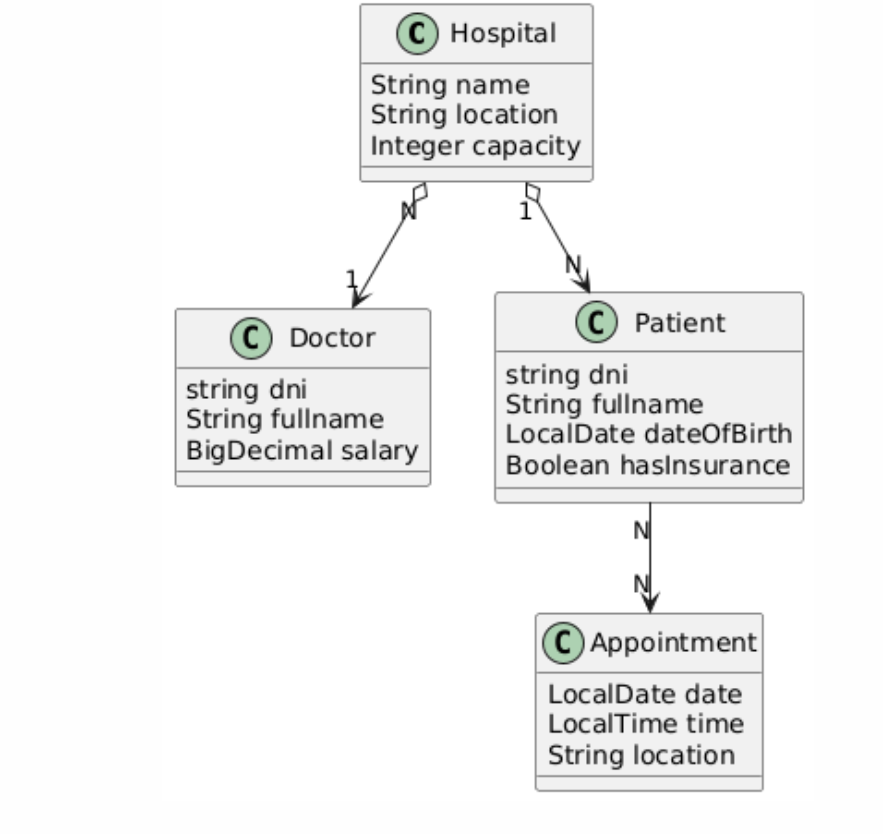
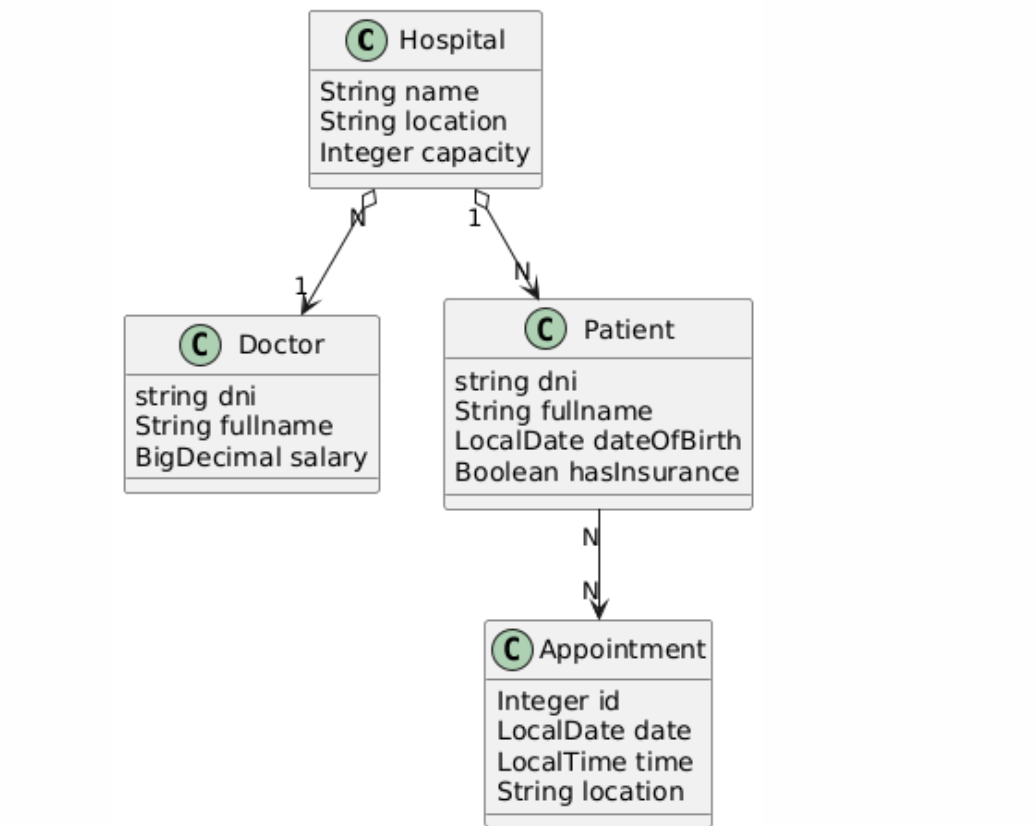
Fixed Model and class diagram  #825

Changed region(s): [[0.0917, 0.3027, 0.9173, 1.0], [0.2752, 0.0, 0.6727, 0.3027], [0.3058, 0.2724, 0.3364, 0.3329]]

diff --git a/src/main/java/es/upm/miw/apaw_practice/domain/models/Hospital/Hospital.java b/src/main/java/es/upm/miw/apaw_practice/domain/models/Hospital/Hospital.java
@@ -5,14 +5,14 @@ public class Hospital {
     private String name;
     private String location;
     private int capacity;
-    private Doctor doctors;
-    private List<Patient> patients; // Relación 1:N con Patient
+    private Doctor doctor;
+    private List<Patient> patients;
 
-    public Hospital(String name, String location, int capacity, Doctor doctors, List<Patient> patients) {
+    public Hospital(String name, String location, int capacity, Doctor doctor, List<Patient> patients) {
         this.name = name;
         this.location = location;
         this.capacity = capacity;
-        this.doctors = doctors;
+        this.doctor = doctor;
         this.patients = patients;
     }
 
@@ -41,11 +41,11 @@ public class Hospital {
     }
 
     public Doctor getDoctors() {
-        return doctors;
+        return doctor;
     }
 
-    public void setDoctors(Doctor doctors) {
-        this.doctors = doctors;
+    public void setDoctors(Doctor doctor) {
+        this.doctor = doctor;
     }
 
     public List<Patient> getPatients() {
@@ -62,7 +62,7 @@ public class Hospital {
                 "name='" + name + '\'' +
                 ", location='" + location + '\'' +
                 ", capacity=" + capacity +
-                ", doctors=" + doctors +
+                ", doctor=" + doctor +
                 ", patients=" + patients +
                 '}';
     }

diff --git a/src/main/java/es/upm/miw/apaw_practice/domain/models/Hospital/Appoinment.java b/src/main/java/es/upm/miw/apaw_practice/domain/models/Hospital/Appoinment.java
@@ -4,17 +4,24 @@ import java.time.LocalDate;
 import java.time.LocalTime;
 
 public class Appoinment {
+    private Id String;
     private LocalDate date;
     private LocalTime time;
     private String location;
 
-
-    //private Patient Patient;
-
-    public Appoinment(LocalDate date, LocalTime time, String location) {
+    public Appoinment(Id string, LocalDate date, LocalTime time, String location) {
+        String = string;
         this.date = date;
         this.time = time;
         this.location = location;
+    }
+
+    public Id getString() {
+        return String;
+    }
+
+    public void setString(Id string) {
+        String = string;
     }
 
     public LocalDate getDate() {
@@ -41,15 +48,13 @@ public class Appoinment {
         this.location = location;
     }
 
-
-
-
     @java.lang.Override
     public java.lang.String toString() {
         return "Appoinment{" +
-                "date=" + date +
+                "String=" + String +
+                ", date=" + date +
                 ", time=" + time +
-                ", location='" + location +
+                ", location='" + location + '\'' +
                 '}';
     }
 }
